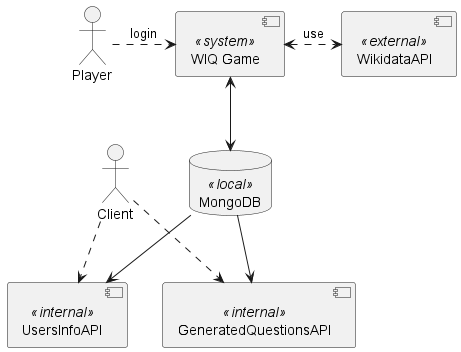
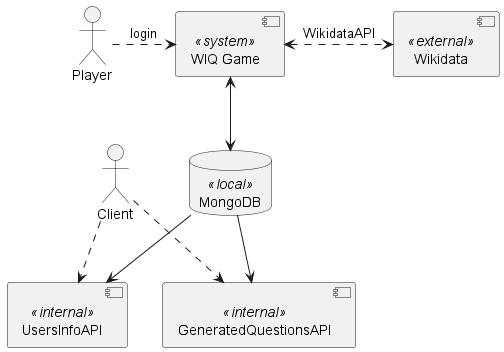
Updates

diff --git a/index.html b/index.html
@@ -455,7 +455,6 @@ body.book #toc,body.book #preamble,body.book h1.sect0,body.book .sect1>h2{page-b
 <li><a href="#section-system-scope-and-context">3. System Scope and Context</a>
 <ul class="sectlevel2">
 <li><a href="#_business_context">3.1. Business Context</a></li>
-<li><a href="#_technical_context">3.2. Technical Context</a></li>
 </ul>
 </li>
 <li><a href="#section-solution-strategy">4. Solution Strategy</a></li>
@@ -800,41 +799,51 @@ The title of the table is the name of your system, the three columns contain the
 </div>
 <div class="imageblock">
 <div class="content">
-<img src="./images/Context%20diagram.png" alt="Context diagram" width="461" height="352">
+<img src="./images/Context%20diagram.png" alt="Context diagram" width="504" height="352">
 </div>
 </div>
-<div class="paragraph">
-<p><strong>&lt;optionally: Explanation of external domain interfaces&gt;</strong></p>
-</div>
-</div>
-<div class="sect2">
-<h3 id="_technical_context">3.2. Technical Context</h3>
-<div class="sidebarblock arc42help">
-<div class="content">
-<div class="paragraph">
-<div class="title">Contents</div>
-<p>Technical interfaces (channels and transmission media) linking your system to its environment. In addition a mapping of domain specific input/output to the channels, i.e. an explanation which I/O uses which channel.</p>
-</div>
-<div class="paragraph">
-<div class="title">Motivation</div>
-<p>Many stakeholders make architectural decision based on the technical interfaces between the system and its context. Especially infrastructure or hardware designers decide these technical interfaces.</p>
-</div>
-<div class="paragraph">
-<div class="title">Form</div>
-<p>E.g. UML deployment diagram describing channels to neighboring systems,
-together with a mapping table showing the relationships between channels and input/output.</p>
-</div>
-</div>
-</div>
-<div class="paragraph">
-<p><strong>&lt;Diagram or Table&gt;</strong></p>
-</div>
-<div class="paragraph">
-<p><strong>&lt;optionally: Explanation of technical interfaces&gt;</strong></p>
-</div>
-<div class="paragraph">
-<p><strong>&lt;Mapping Input/Output to Channels&gt;</strong></p>
-</div>
+<table class="tableblock frame-all grid-all stretch">
+<colgroup>
+<col style="width: 33.3333%;">
+<col style="width: 66.6667%;">
+</colgroup>
+<thead>
+<tr>
+<th class="tableblock halign-left valign-top">Element</th>
+<th class="tableblock halign-left valign-top">Description</th>
+</tr>
+</thead>
+<tbody>
+<tr>
+<td class="tableblock halign-left valign-top"><p class="tableblock"><em>Player</em></p></td>
+<td class="tableblock halign-left valign-top"><p class="tableblock"><em>Plays the game and can consult past scores</em></p></td>
+</tr>
+<tr>
+<td class="tableblock halign-left valign-top"><p class="tableblock"><em>Client</em></p></td>
+<td class="tableblock halign-left valign-top"><p class="tableblock"><em>Can access the data about players and generated questions</em></p></td>
+</tr>
+<tr>
+<td class="tableblock halign-left valign-top"><p class="tableblock"><em>WIQ Game</em></p></td>
+<td class="tableblock halign-left valign-top"><p class="tableblock"><em>Main system in which generated questions are shown and can be answered by players</em></p></td>
+</tr>
+<tr>
+<td class="tableblock halign-left valign-top"><p class="tableblock"><em>Wikidata</em></p></td>
+<td class="tableblock halign-left valign-top"><p class="tableblock"><em>External data repository from which questions are generated using the WikidataAPI</em></p></td>
+</tr>
+<tr>
+<td class="tableblock halign-left valign-top"><p class="tableblock"><em>MongoDB</em></p></td>
+<td class="tableblock halign-left valign-top"><p class="tableblock"><em>Database for storing generated questions, players' info and scores</em></p></td>
+</tr>
+<tr>
+<td class="tableblock halign-left valign-top"><p class="tableblock"><em>Users Info API</em></p></td>
+<td class="tableblock halign-left valign-top"><p class="tableblock"><em>Allows clients to see the info about players stored in the database</em></p></td>
+</tr>
+<tr>
+<td class="tableblock halign-left valign-top"><p class="tableblock"><em>Generated Questions API</em></p></td>
+<td class="tableblock halign-left valign-top"><p class="tableblock"><em>Allows clients to see the info about generated questions stored in the database</em></p></td>
+</tr>
+</tbody>
+</table>
 <div style="page-break-after: always;"></div>
 </div>
 </div>
